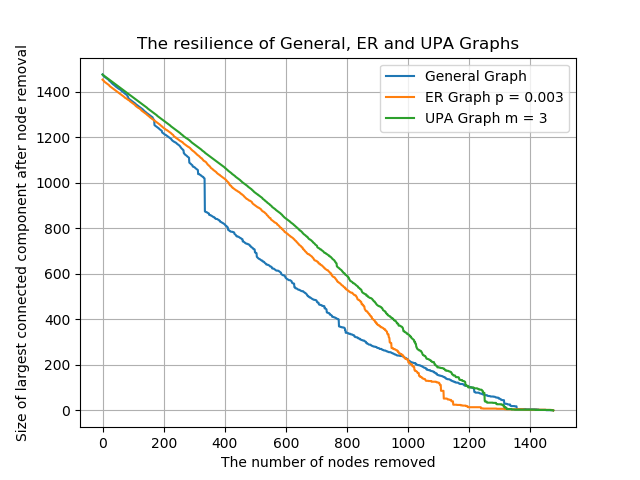
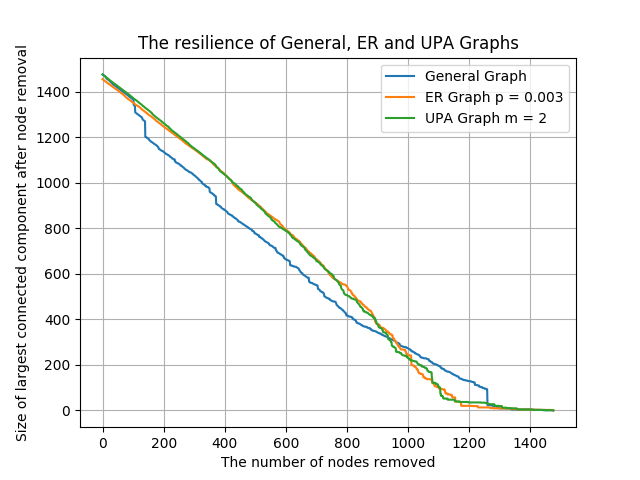
change value m

diff --git a/lab2/ex1.py b/lab2/ex1.py
@@ -21,7 +21,7 @@ from sys import setrecursionlimit
 
 n = 1476
 p = 0.003#(n archi*100/n^2)
-m = 3
+m = 2
 path = "as19991212.txt"
 setrecursionlimit(10000)
 
@@ -44,12 +44,12 @@ ERgraph = all_graphs.ER_graph
 generalGraph = all_graphs.graph_from_file
 UPAgraph = all_graphs.UPA_graph
 
-
+# calcola la resilienza iniziale deI grafI
 resilience_general = [maxCC(generalGraph)]
 resilience_ER = [maxCC(ERgraph)]
-resilience_UPA = []
+resilience_UPA = [maxCC(UPAgraph)]
 
-#elimino gli n nodi
+#Calcolo delle nuove resilienze scegliendo gli n nodi da eliminare in modo casuale
 for i in range(n):
     resilience_general.append(calcResilience(generalGraph))
     resilience_ER.append(calcResilience(ERgraph))

diff --git a/lab2/utils/generateUndirectedGraphER.py b/lab2/utils/generateUndirectedGraphER.py
@@ -1,16 +1,14 @@
-import itertools
 import random
-from collections import defaultdict
 
 class generateUndirectedGraphER:
     # params
-    # n: numero di nosi
+    # n: numero di nodi
     # p: probabilita che un certo nodo venga estratto
     def __init__(self,n,p):
         if p >= 0 and p <= 1:
             self.n = n
             self.p = p
-            self.adj_list = defaultdict(set)
+            self.adj_list = {}
 
             for i in range(n):
                 self.adj_list[i] = set()

diff --git a/lab2/utils/generateUPAGraph.py b/lab2/utils/generateUPAGraph.py
@@ -33,6 +33,7 @@ class generateUPAGraph:
     def __init__(self,n,m):
         self.adj_list = generateUndirectedGraphER(m,1).adj_list #creo un uER completo
         v = UPATrial(m)
+        w = 0
         for node in range(m,n):
                 adjs = v.runTrial(m)
                 self.adj_list[node] = adjs

diff --git a/lab2/utils/generateUndirectedGraphFromFile.py b/lab2/utils/generateUndirectedGraphFromFile.py
@@ -11,7 +11,6 @@ class generateUndirectedGraphFromFile:
         f = np.loadtxt(self.path, delimiter="\t")
         for line in f:
             l = [int(n) for n in line]
-            # print l
 
             if (l[0] != l[1]):
                 self.adj_list[l[0]].add(l[1])

diff --git a/lab2/ex3.py b/lab2/ex3.py
@@ -21,7 +21,7 @@ from sys import setrecursionlimit
 
 n = 1476
 p = 0.003 #(n archi*100/n^2)
-m = 3
+m = 2
 path = "as19991212.txt"
 setrecursionlimit(10000)
 
